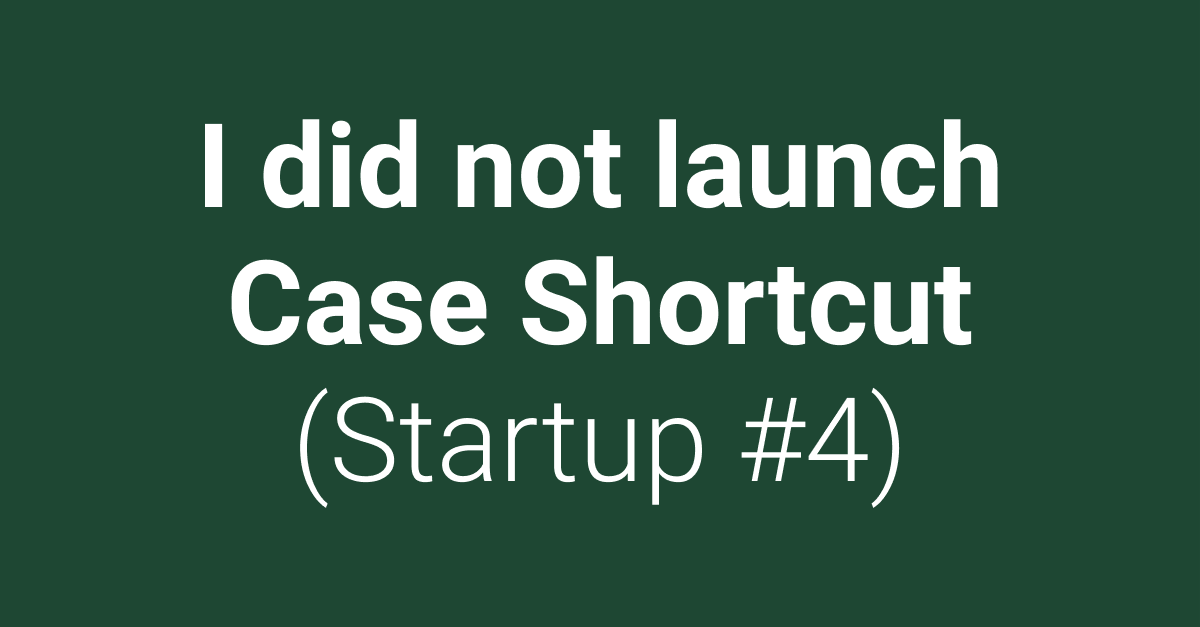
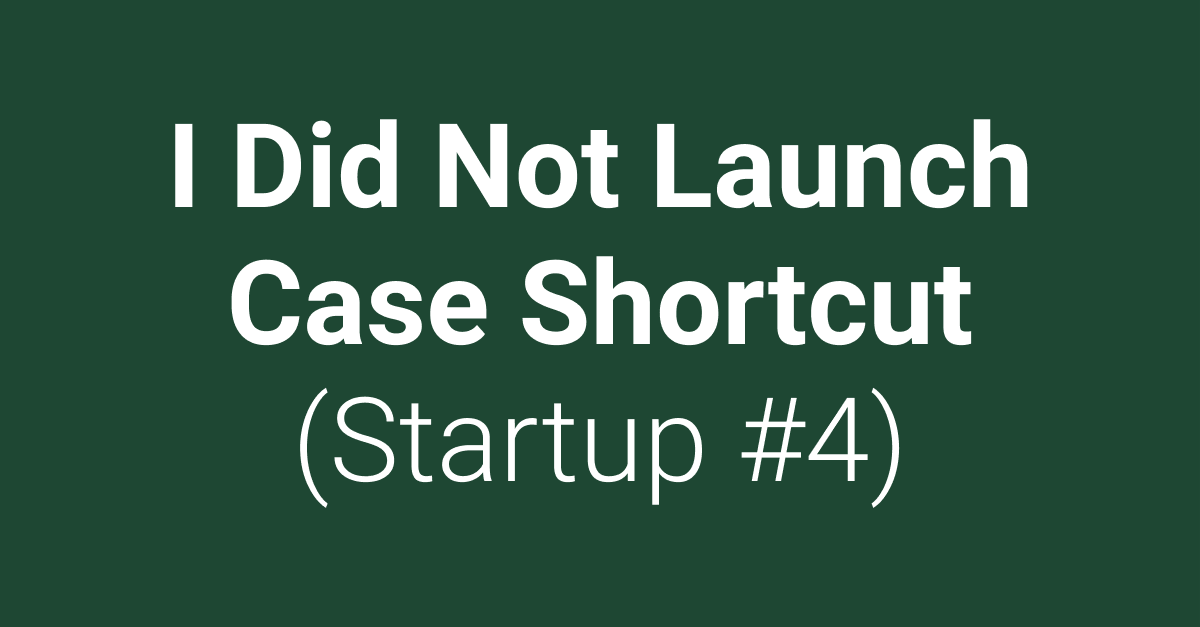
go

Changed region(s): [[0.1233, 0.1818, 0.5242, 0.3333], [0.555, 0.1818, 0.8633, 0.3333]]

diff --git a/content/random/draft-2021-04-03-newsletter-update.md b/content/random/draft-2021-04-03-newsletter-update.md
@@ -2,18 +2,35 @@ Subject: Lars news: earning 600$ on a french pronunciation website + 2 other lau
 
 Hi everyone! 👋
 
+Since last time, I have continued to work on my 12 startups in 12 months project.
 
+I have also gotten a job working on the GrowthDay app by Brendon Burchard. I will do that for some months until I have enough money to focus 100% on my own projects again.
 
-In January, February and March, I have made and launched 3 new projects:
+## My launches
 
-January: Imitate. A french pronunciation website that I earned 600$ on. Read more: LINK
+In January, February and March, I have made and launched three new projects:
 
-February: Case Shortcut. Small mac utility app. ⚠ Didn't get time to launch this, will do it later. Read more: LINK
+January: Imitate. A french pronunciation website that I earned 600$ on. Read more: [LINK](https://larskarbo.no/imitate-launch/)
 
-March: Napchart. This is a site I have had for 5 years. I did a big update and added payment functionality. I have earned 35$ so far.
+February: Case Shortcut. Small mac utility app. ⚠ I didn't get time to launch this, I'll do it later. Read more: [LINK](https://larskarbo.no/case-shortcut-almost-launch/)
+
+March: Napchart. This is a site I have had for five years. I did a big update and added payment functionality. I have earned 35$ so far.
+
+## Should I fail harder?
+
+A friend of mine, Gard, asked me what my worst failure was.
+
+I realize I don't have any interesting failure stories. As long as I get the project over the launch finish line, something good usually comes out of it.
+
+Maybe I should set my self up to create some spectacular failures?
 
 ----
 
+Have a nice April everyone!
+
+Best,
+
+Lars
 
 
 

diff --git a/content/blog/2021-04-03-case-shortcut-almost-launch/index.md b/content/blog/2021-04-03-case-shortcut-almost-launch/index.md
@@ -1,5 +1,5 @@
 ---
-title: "I did not launch Case Shortcut (Startup #4)"
+title: "I Did Not Launch Case Shortcut (Startup #4)"
 excerpt: I almost launched Case shortcut in five days but had to abort it.
 tags: ["12x"]
 hero: ./hero.png
